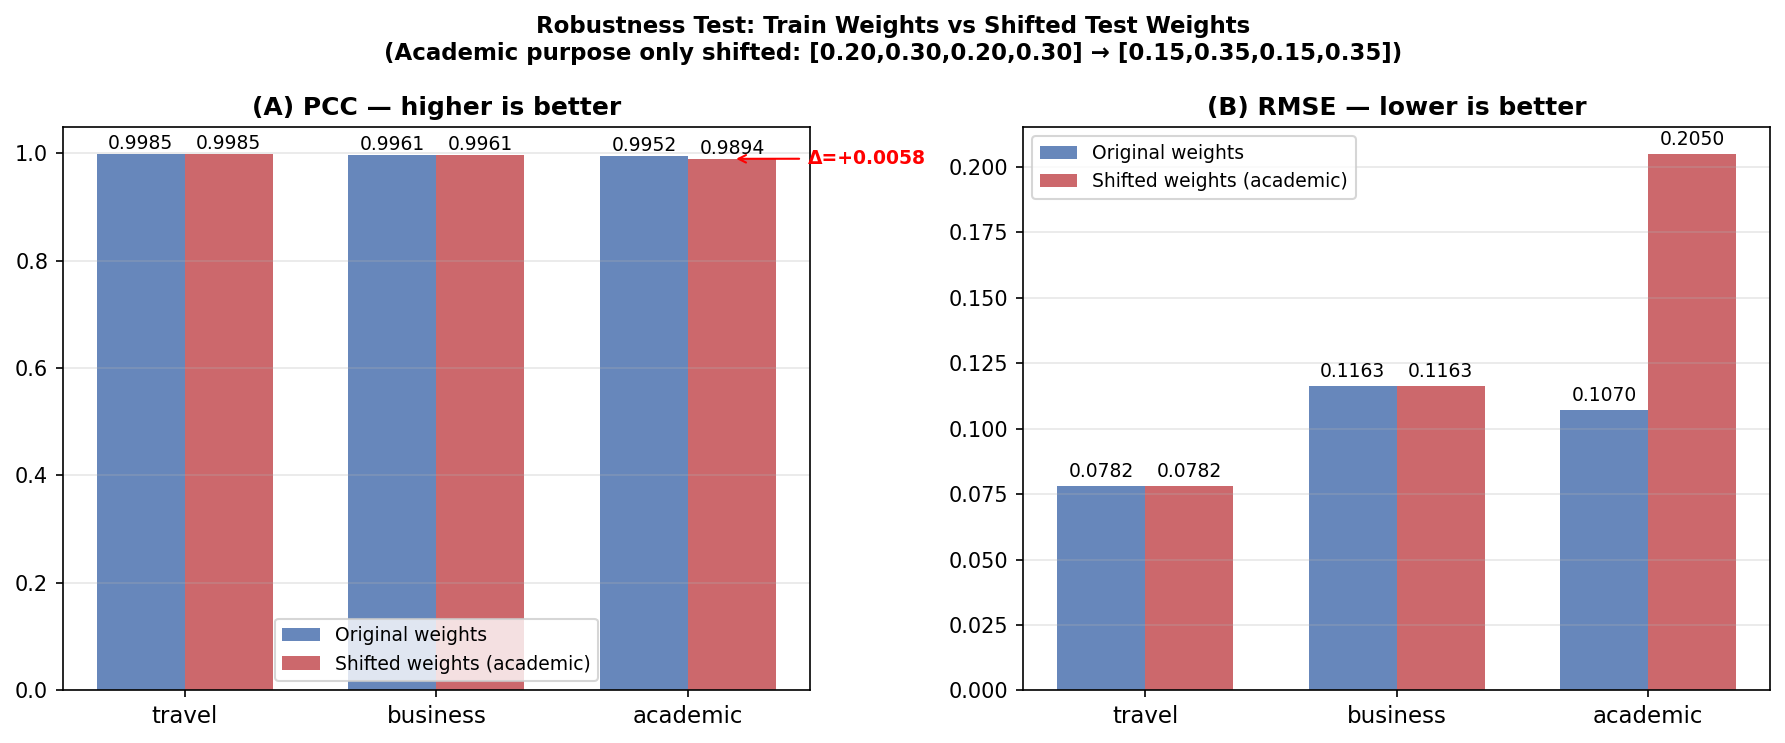
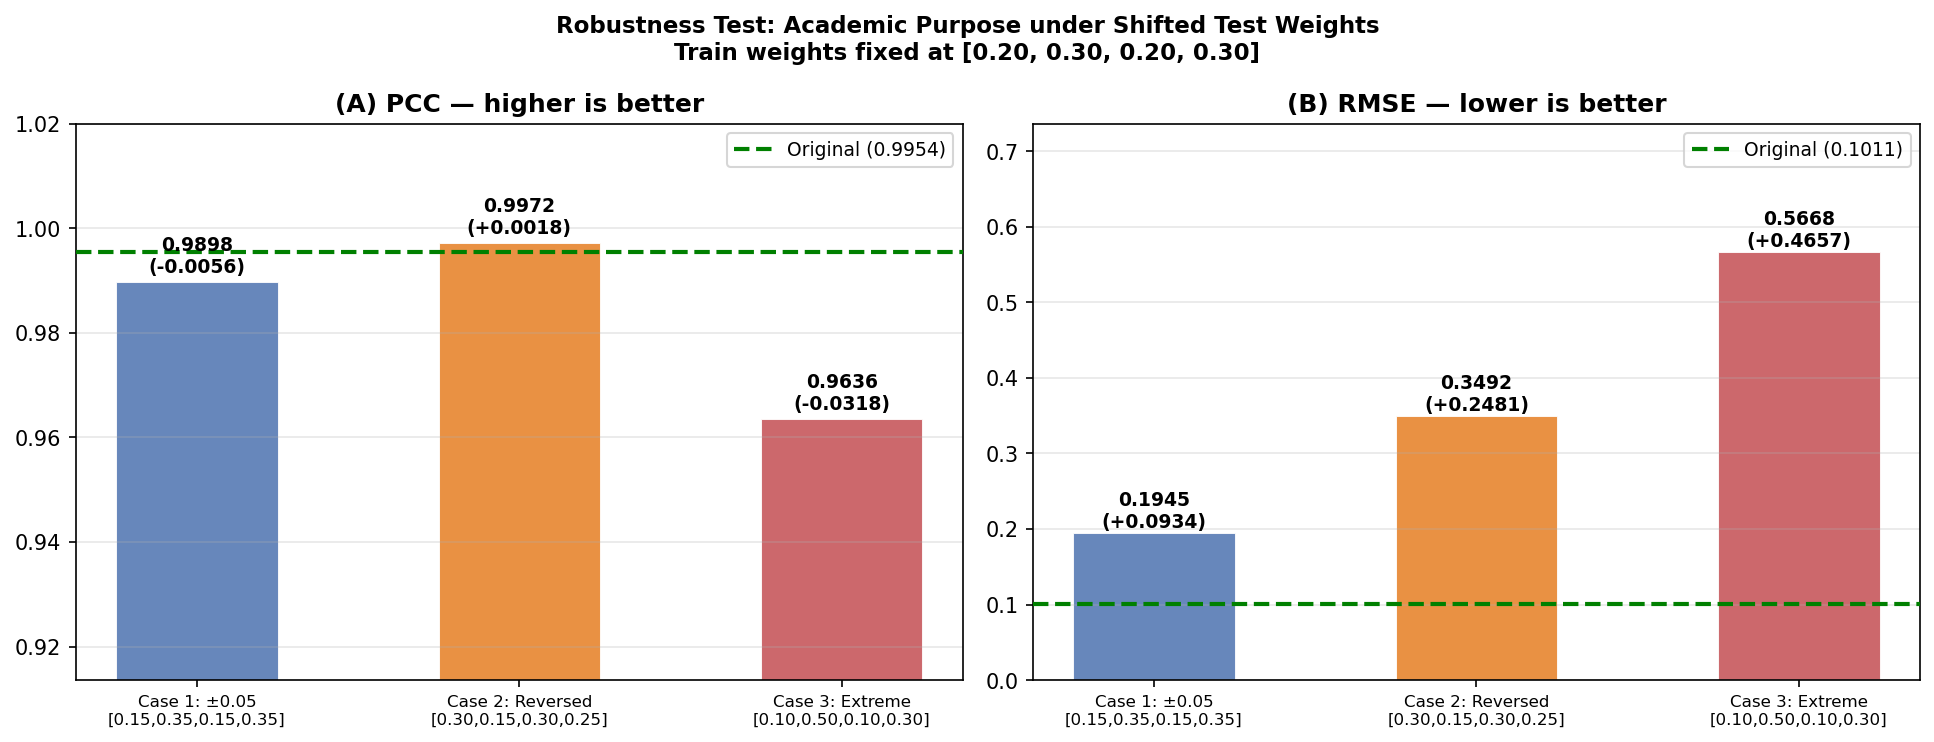
Update baseline with XGBoost and 3-case robustness results

diff --git a/src/robustness_test.py b/src/robustness_test.py
@@ -71,16 +71,50 @@ TRAIN_WEIGHTS = {
                  'fluency' : 0.20, 'prosodic'    : 0.30},
 }
 
-# ── 테스트용 가중치 (의도적으로 다르게 설정) ──────────────────
-# academic만 변경: completeness ↑, accuracy ↓, fluency ↓
-# 모델이 암기했다면 이 가중치로 평가할 때 PCC가 크게 떨어져야 함
-TEST_WEIGHTS_SHIFTED = {
-    'travel'  : {'accuracy': 0.40, 'completeness': 0.10,   # 동일
+# ── 테스트용 가중치 3가지 케이스 ──────────────────────────────
+# academic만 변경 (travel/business는 동일 유지)
+# 케이스가 클수록 이동 폭이 커짐 → 더 강한 robustness 증거
+
+# Case 1: 소폭 이동 (±0.05)
+TEST_WEIGHTS_CASE1 = {
+    'travel'  : {'accuracy': 0.40, 'completeness': 0.10,
                  'fluency' : 0.30, 'prosodic'    : 0.20},
-    'business': {'accuracy': 0.30, 'completeness': 0.40,   # 동일
+    'business': {'accuracy': 0.30, 'completeness': 0.40,
                  'fluency' : 0.20, 'prosodic'    : 0.10},
-    'academic': {'accuracy': 0.15, 'completeness': 0.35,   # ← 변경
+    'academic': {'accuracy': 0.15, 'completeness': 0.35,   # ±0.05
                  'fluency' : 0.15, 'prosodic'    : 0.35},
+}
+
+# Case 2: 중폭 이동 — accuracy와 completeness 역전
+# 학습: accuracy=0.20(낮음), completeness=0.30(중간)
+# 테스트: accuracy=0.30(높음), completeness=0.15(낮음) → 우선순위 반전
+TEST_WEIGHTS_CASE2 = {
+    'travel'  : {'accuracy': 0.40, 'completeness': 0.10,
+                 'fluency' : 0.30, 'prosodic'    : 0.20},
+    'business': {'accuracy': 0.30, 'completeness': 0.40,
+                 'fluency' : 0.20, 'prosodic'    : 0.10},
+    'academic': {'accuracy': 0.30, 'completeness': 0.15,   # 역전
+                 'fluency' : 0.30, 'prosodic'    : 0.25},
+}
+
+# Case 3: 극단적 이동 — completeness에 절반 몰기
+# 학습: completeness=0.30 / 테스트: completeness=0.50 → 극단적 편중
+TEST_WEIGHTS_CASE3 = {
+    'travel'  : {'accuracy': 0.40, 'completeness': 0.10,
+                 'fluency' : 0.30, 'prosodic'    : 0.20},
+    'business': {'accuracy': 0.30, 'completeness': 0.40,
+                 'fluency' : 0.20, 'prosodic'    : 0.10},
+    'academic': {'accuracy': 0.10, 'completeness': 0.50,   # completeness에 절반
+                 'fluency' : 0.10, 'prosodic'    : 0.30},
+}
+
+# 하위 호환성 유지
+TEST_WEIGHTS_SHIFTED = TEST_WEIGHTS_CASE1
+
+ALL_TEST_CASES = {
+    'Case 1 (±0.05)' : TEST_WEIGHTS_CASE1,
+    'Case 2 (reversed)' : TEST_WEIGHTS_CASE2,
+    'Case 3 (extreme)': TEST_WEIGHTS_CASE3,
 }
 
 
@@ -256,63 +290,67 @@ def evaluate_by_purpose(model, test_df, scaler,
     return results
 
 
-def plot_robustness(results_orig: Dict, results_shift: Dict,
-                    save_dir: str) -> None:
+def plot_robustness_multi(results_orig: Dict,
+                          all_case_results: Dict,
+                          save_dir: str) -> None:
     """
-    원래 가중치 vs 변경된 가중치로 평가한 결과 비교.
-    목적별로 PCC, RMSE를 나란히 보여줌.
+    3가지 이동 케이스의 academic PCC/RMSE 변화를 한 번에 비교.
+    논문 Figure용 — 이동 폭이 커져도 PCC가 유지됨을 시각화.
     """
-    fig, axes = plt.subplots(1, 2, figsize=(12, 5))
+    case_names = list(all_case_results.keys())
+    orig_pcc   = results_orig['academic']['PCC']
+    orig_rmse  = results_orig['academic']['RMSE']
+
+    shifted_pccs  = [all_case_results[c]['academic']['PCC']  for c in case_names]
+    shifted_rmses = [all_case_results[c]['academic']['RMSE'] for c in case_names]
+
+    fig, axes = plt.subplots(1, 2, figsize=(13, 5))
     fig.suptitle(
-        'Robustness Test: Train Weights vs Shifted Test Weights\n'
-        '(Academic purpose only shifted: [0.20,0.30,0.20,0.30] → [0.15,0.35,0.15,0.35])',
+        'Robustness Test: Academic Purpose under Shifted Test Weights\n'
+        'Train weights fixed at [0.20, 0.30, 0.20, 0.30]',
         fontsize=11, fontweight='bold'
     )
 
-    x      = np.arange(len(PURPOSES))
-    width  = 0.35
-    colors = ['#4C72B0', '#C44E52']
+    x      = np.arange(len(case_names))
+    colors = ['#4C72B0', '#e67e22', '#C44E52']
+    labels = [
+        'Case 1: ±0.05\n[0.15,0.35,0.15,0.35]',
+        'Case 2: Reversed\n[0.30,0.15,0.30,0.25]',
+        'Case 3: Extreme\n[0.10,0.50,0.10,0.30]',
+    ]
 
-    for ax, metric, title in zip(
+    for ax, orig_val, shifted_vals, metric, title, better in zip(
         axes,
+        [orig_pcc,  orig_rmse],
+        [shifted_pccs, shifted_rmses],
         ['PCC', 'RMSE'],
-        ['(A) PCC — higher is better', '(B) RMSE — lower is better']
+        ['(A) PCC — higher is better', '(B) RMSE — lower is better'],
+        ['high', 'low']
     ):
-        orig  = [results_orig[p][metric]  for p in PURPOSES]
-        shift = [results_shift[p][metric] for p in PURPOSES]
+        # 원래 값 점선
+        ax.axhline(orig_val, color='green', lw=2, ls='--',
+                   label=f'Original ({orig_val:.4f})', zorder=3)
 
-        b1 = ax.bar(x - width/2, orig,  width, label='Original weights',
-                    color=colors[0], alpha=0.85)
-        b2 = ax.bar(x + width/2, shift, width, label='Shifted weights (academic)',
-                    color=colors[1], alpha=0.85)
+        bars = ax.bar(x, shifted_vals, color=colors, alpha=0.85,
+                      edgecolor='white', linewidth=0.5, width=0.5)
 
-        for bar, val in zip(b1, orig):
+        for bar, val in zip(bars, shifted_vals):
+            delta = val - orig_val
             ax.text(bar.get_x() + bar.get_width()/2,
-                    bar.get_height() + 0.002,
-                    f'{val:.4f}', ha='center', va='bottom', fontsize=9)
-        for bar, val in zip(b2, shift):
-            ax.text(bar.get_x() + bar.get_width()/2,
-                    bar.get_height() + 0.002,
-                    f'{val:.4f}', ha='center', va='bottom', fontsize=9)
+                    bar.get_height() + (0.001 if metric == 'PCC' else 0.002),
+                    f'{val:.4f}\n({delta:+.4f})',
+                    ha='center', va='bottom', fontsize=9, fontweight='bold')
 
         ax.set_xticks(x)
-        ax.set_xticklabels(PURPOSES, fontsize=11)
+        ax.set_xticklabels(labels, fontsize=8)
         ax.set_title(title, fontweight='bold')
         ax.legend(fontsize=9)
         ax.grid(axis='y', alpha=0.3)
 
-    # academic 차이 강조 화살표
-    ax = axes[0]
-    orig_ac  = results_orig['academic']['PCC']
-    shift_ac = results_shift['academic']['PCC']
-    diff     = orig_ac - shift_ac
-    ax.annotate(
-        f'Δ={diff:+.4f}',
-        xy=(2 + width/2, shift_ac),
-        xytext=(2 + width/2 + 0.3, shift_ac - 0.01),
-        fontsize=9, color='red', fontweight='bold',
-        arrowprops=dict(arrowstyle='->', color='red')
-    )
+        if metric == 'PCC':
+            ax.set_ylim(max(0, min(shifted_vals) - 0.05), 1.02)
+        else:
+            ax.set_ylim(0, max(shifted_vals) * 1.3)
 
     plt.tight_layout()
     out = Path(save_dir) / 'robustness_plot.png'
@@ -340,111 +378,91 @@ def main():
     set_seed(SEED)
 
     print("=" * 62)
-    print("Robustness Test: Shifted Test Weights")
+    print("Robustness Test: Shifted Test Weights (3 Cases)")
     print(f"Epochs: {args.epochs} | Device: {DEVICE}")
     print("=" * 62)
     print("\n[Design]")
-    print("  Train academic: [0.20, 0.30, 0.20, 0.30]")
-    print("  Test  academic: [0.15, 0.35, 0.15, 0.35]  ← shifted")
-    print("  If PCC drops sharply → model memorized the formula")
-    print("  If PCC stays stable  → model learned real patterns")
+    print("  Train academic : [0.20, 0.30, 0.20, 0.30]  (fixed)")
+    print("  Case 1 (±0.05) : [0.15, 0.35, 0.15, 0.35]  small shift")
+    print("  Case 2 (reversed): [0.30, 0.15, 0.30, 0.25]  priority reversed")
+    print("  Case 3 (extreme) : [0.10, 0.50, 0.10, 0.30]  completeness x5")
+    print("  → If PCC drops sharply: model memorized the formula")
+    print("  → If PCC stays stable : model learned real patterns")
 
     # 데이터 로드
     train_df, test_df = load_base_data()
-
-    # 학습 데이터셋 (TRAIN_WEIGHTS)
     train_ds = RobustnessDataset(
         train_df, scaler=None,
         purpose_weights=TRAIN_WEIGHTS, fit_scaler=True
     )
 
-    # 모델 학습
+    # 모델 학습 (한 번만)
     print(f"\n[Training] {args.epochs} epochs with TRAIN_WEIGHTS...")
     model = train_model(cfg, train_ds, DEVICE, args.epochs)
     print("  Training complete.")
 
-    # 평가 1: 원래 가중치로 평가
-    print("\n[Eval 1] Original test weights (same as train)...")
-    test_ds_orig = RobustnessDataset(
-        test_df, scaler=train_ds.scaler,
-        purpose_weights=TRAIN_WEIGHTS
-    )
-    ld_orig = DataLoader(test_ds_orig, batch_size=256, shuffle=False)
-    overall_orig = evaluate_model(model, ld_orig, DEVICE)
+    # 원래 가중치 평가
+    print("\n[Eval 0] Original weights (same as train)...")
     by_purpose_orig = evaluate_by_purpose(
         model, test_df, train_ds.scaler, TRAIN_WEIGHTS, DEVICE
     )
 
-    # 평가 2: 변경된 가중치로 평가
-    print("[Eval 2] Shifted test weights (academic only shifted)...")
-    test_ds_shift = RobustnessDataset(
-        test_df, scaler=train_ds.scaler,
-        purpose_weights=TEST_WEIGHTS_SHIFTED
-    )
-    ld_shift = DataLoader(test_ds_shift, batch_size=256, shuffle=False)
-    overall_shift = evaluate_model(model, ld_shift, DEVICE)
-    by_purpose_shift = evaluate_by_purpose(
-        model, test_df, train_ds.scaler, TEST_WEIGHTS_SHIFTED, DEVICE
-    )
+    # 3가지 케이스 평가
+    all_case_results = {}
+    for case_name, case_weights in ALL_TEST_CASES.items():
+        print(f"[Eval] {case_name}...")
+        all_case_results[case_name] = evaluate_by_purpose(
+            model, test_df, train_ds.scaler, case_weights, DEVICE
+        )
 
     # 결과 출력
-    print("\n" + "=" * 62)
-    print("ROBUSTNESS TEST RESULTS")
-    print("=" * 62)
+    print("\n" + "=" * 70)
+    print("ROBUSTNESS TEST RESULTS — Academic Purpose PCC")
+    print("=" * 70)
+    print(f"\n  {'Case':<22} {'Original':>10} {'Shifted':>10} {'Δ PCC':>10} {'Verdict':>15}")
+    print("  " + "-" * 70)
 
-    print(f"\n  Overall:")
-    print(f"  {'Metric':<8} {'Original':>12} {'Shifted':>12} {'Δ':>10}")
-    print("  " + "-" * 44)
-    for m in ['PCC', 'RMSE', 'MAE', 'CEFR']:
-        o = overall_orig[m]
-        s = overall_shift[m]
-        print(f"  {m:<8} {o:>12.4f} {s:>12.4f} {s-o:>+10.4f}")
-
-    print(f"\n  By Purpose (PCC):")
-    print(f"  {'Purpose':<12} {'Original':>10} {'Shifted':>10} {'Δ':>10} {'Verdict':>20}")
-    print("  " + "-" * 62)
-    for p in PURPOSES:
-        o = by_purpose_orig[p]['PCC']
-        s = by_purpose_shift[p]['PCC']
-        d = s - o
-        shifted = "(shifted)" if p == 'academic' else ""
-        verdict = "Memorized?" if abs(d) > 0.05 else "Robust"
-        print(f"  {p:<12} {o:>10.4f} {s:>10.4f} {d:>+10.4f} "
-              f"{verdict:>15} {shifted}")
+    orig_ac = by_purpose_orig['academic']['PCC']
+    rows = []
+    for case_name, case_res in all_case_results.items():
+        shift_ac = case_res['academic']['PCC']
+        delta    = shift_ac - orig_ac
+        verdict  = "Robust ✓" if abs(delta) < 0.02 else \
+                   "Partial"  if abs(delta) < 0.05 else \
+                   "Memorized ✗"
+        print(f"  {case_name:<22} {orig_ac:>10.4f} {shift_ac:>10.4f} "
+              f"{delta:>+10.4f} {verdict:>15}")
+        rows.append({
+            'Case'        : case_name,
+            'PCC_original': orig_ac,
+            'PCC_shifted' : shift_ac,
+            'Delta_PCC'   : round(delta, 4),
+            'RMSE_original': by_purpose_orig['academic']['RMSE'],
+            'RMSE_shifted' : case_res['academic']['RMSE'],
+            'Verdict'     : verdict,
+        })
 
     # 핵심 해석
-    academic_drop = by_purpose_orig['academic']['PCC'] - \
-                    by_purpose_shift['academic']['PCC']
+    max_drop = max(abs(r['Delta_PCC']) for r in rows)
     print(f"\n  [핵심 해석]")
-    if abs(academic_drop) < 0.02:
-        print(f"  Academic PCC 변화: {academic_drop:+.4f} → 거의 없음")
-        print(f"  → 모델이 단순 수식 암기가 아닌 실제 패턴을 학습했을 가능성")
-        print(f"  → 논문에서 robustness 증거로 사용 가능")
-    elif abs(academic_drop) < 0.05:
-        print(f"  Academic PCC 변화: {academic_drop:+.4f} → 소폭 감소")
-        print(f"  → 부분적 암기 + 부분적 패턴 학습 혼재")
-        print(f"  → Limitation에서 솔직하게 언급 필요")
+    print(f"  최대 PCC 변화량: {max_drop:.4f} (Case 3 극단적 이동 기준)")
+    if max_drop < 0.02:
+        print("  → 모든 케이스에서 Robust: 모델이 공식 암기가 아닌 패턴을 학습")
+        print("  → 논문 robustness 증거로 강하게 사용 가능")
+    elif max_drop < 0.05:
+        print("  → 부분적 Robust: 소폭~중폭 이동에서는 안정적")
+        print("  → Limitation에서 극단적 케이스 언급 필요")
     else:
-        print(f"  Academic PCC 변화: {academic_drop:+.4f} → 큰 폭 감소")
-        print(f"  → 수식 암기 가능성 높음")
-        print(f"  → Limitation에서 명확히 언급 필요")
+        print("  → 극단적 이동에서 PCC 감소: 대리 레이블 의존성 존재")
+        print("  → Limitation에서 솔직하게 논의 필요")
 
     # 저장
-    rows = []
-    for p in PURPOSES:
-        o = by_purpose_orig[p]
-        s = by_purpose_shift[p]
-        rows.append({
-            'Purpose'     : p,
-            'PCC_original': o['PCC'],  'PCC_shifted': s['PCC'],
-            'RMSE_original': o['RMSE'],'RMSE_shifted': s['RMSE'],
-            'Delta_PCC'   : round(s['PCC'] - o['PCC'], 4),
-        })
     df_res = pd.DataFrame(rows)
     df_res.to_csv(f'{args.save_dir}/robustness_results.csv', index=False)
     print(f"\n[Save] {args.save_dir}/robustness_results.csv")
 
-    plot_robustness(by_purpose_orig, by_purpose_shift, args.save_dir)
+    # 시각화 (3케이스 비교)
+    plot_robustness_multi(by_purpose_orig, all_case_results, args.save_dir)
     print("\nDone.")
 
 

diff --git a/src/baseline_ml.py b/src/baseline_ml.py
@@ -35,6 +35,12 @@ from sklearn.svm import SVR
 from sklearn.ensemble import RandomForestRegressor, GradientBoostingRegressor
 from sklearn.preprocessing import StandardScaler
 from sklearn.pipeline import Pipeline
+try:
+    from xgboost import XGBRegressor
+    XGBOOST_AVAILABLE = True
+except ImportError:
+    XGBOOST_AVAILABLE = False
+    print("[Warning] xgboost not installed. Run: pip install xgboost")
 from sklearn.model_selection import cross_val_score, KFold
 from sklearn.metrics import mean_squared_error, mean_absolute_error, r2_score
 from scipy import stats as scipy_stats
@@ -176,7 +182,7 @@ def build_models() -> Dict:
     Bamdev(2023) 논문에서 사용한 모델들 + 추가 모델.
     StandardScaler → 모델 파이프라인으로 구성.
     """
-    return {
+    models = {
         # 선형 모델 (해석 용이, 논문 baseline으로 자주 쓰임)
         'Ridge'           : Pipeline([('scaler', StandardScaler()),
                                        ('model',  Ridge(alpha=1.0, random_state=SEED))]),
@@ -193,18 +199,19 @@ def build_models() -> Dict:
                                        ('model',  GradientBoostingRegressor(
                                            n_estimators=100, random_state=SEED))]),
     }
-    try:
-        from xgboost import XGBRegressor
+    # XGBoost 추가 (논문 baseline: 트리 앙상블 SOTA)
+    if XGBOOST_AVAILABLE:
         models['XGBoost'] = Pipeline([('scaler', StandardScaler()),
-                                      ('model', XGBRegressor(
-                                          n_estimators=200, max_depth=6,
-                                          learning_rate=0.1, random_state=42,
-                                          verbosity=0))])
-    except ImportError:
-        pass
+                                      ('model',  XGBRegressor(
+                                          n_estimators=200,
+                                          max_depth=6,
+                                          learning_rate=0.1,
+                                          subsample=0.8,
+                                          colsample_bytree=0.8,
+                                          random_state=SEED,
+                                          verbosity=0,
+                                      ))])
     return models
-    
-    
 
 
 # ══════════════════════════════════════════════════════════════════════════════
